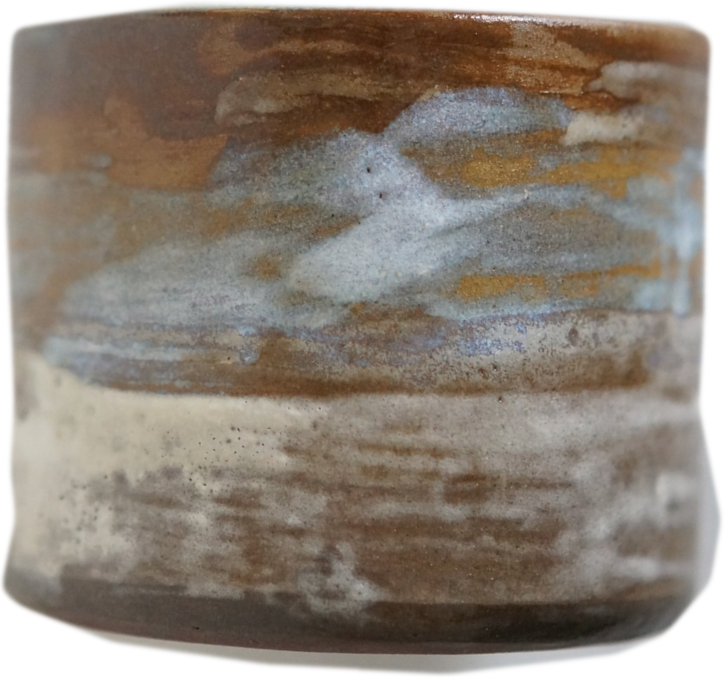
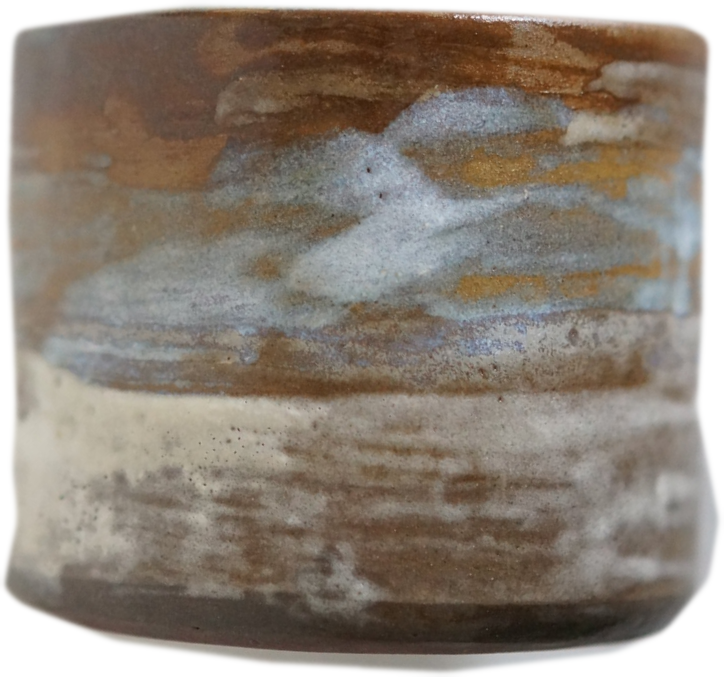
Cup shadow follows window light: cast to the left, darker contact at base
Claude-Session: https://claude.ai/code/session_01AEbdvaQdcn1wDswkTZmQQm

diff --git a/index.html b/index.html
@@ -83,11 +83,11 @@ button{font:inherit;color:inherit}
 @keyframes steam{from{opacity:.2;transform:translateY(3px)}to{opacity:.65;transform:translateY(-3px)}}
 @media (prefers-reduced-motion:reduce){.steam{animation:none;opacity:.45}}
 .pot img{display:block;width:100%;height:auto;position:relative;filter:brightness(1.05) saturate(.85) sepia(.05)}
-.pot-shadow{position:absolute;left:-26%;right:30%;bottom:-3%;height:16%;
-  background:radial-gradient(ellipse 50% 50% at 60% 50%, rgba(70,56,42,.42), rgba(70,56,42,0) 70%);
-  filter:blur(7px);transform:skewX(38deg);transform-origin:right bottom}
-.pot-contact{position:absolute;left:2%;right:2%;bottom:-3%;height:9%;
-  background:radial-gradient(ellipse 50% 50% at 50% 55%, rgba(50,40,30,.55), rgba(50,40,30,0) 72%);filter:blur(3px)}
+.pot-shadow{position:absolute;left:-75%;width:105%;bottom:-5%;height:18%;
+  background:radial-gradient(ellipse 50% 50% at 86% 46%, rgba(60,46,34,.72) 0%, rgba(60,46,34,.4) 45%, rgba(70,56,42,0) 100%);
+  filter:blur(6px);transform:rotate(3deg);transform-origin:right center}
+.pot-contact{position:absolute;left:3%;right:1%;bottom:-2.6%;height:7%;
+  background:radial-gradient(ellipse 50% 50% at 50% 50%, rgba(30,22,16,.85), rgba(30,22,16,0) 72%);filter:blur(2.5px)}
 .pot-glow{position:absolute;inset:0;pointer-events:none;mix-blend-mode:soft-light;
   background:linear-gradient(235deg, rgba(255,250,236,.7) 0%, rgba(255,250,236,.2) 38%, rgba(255,250,236,0) 60%);
   -webkit-mask:var(--pot-mask) center/100% 100% no-repeat;mask:var(--pot-mask) center/100% 100% no-repeat}
